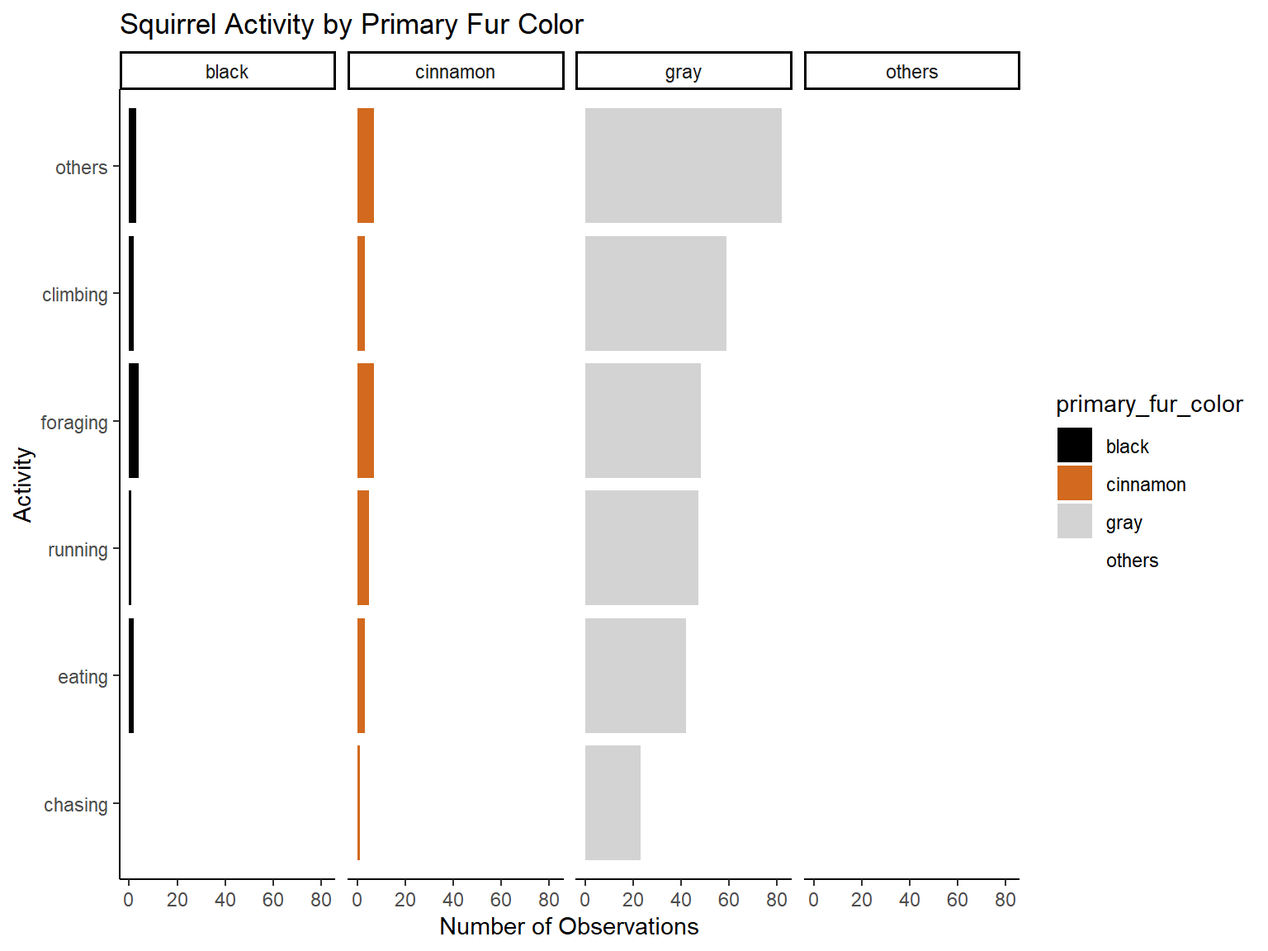
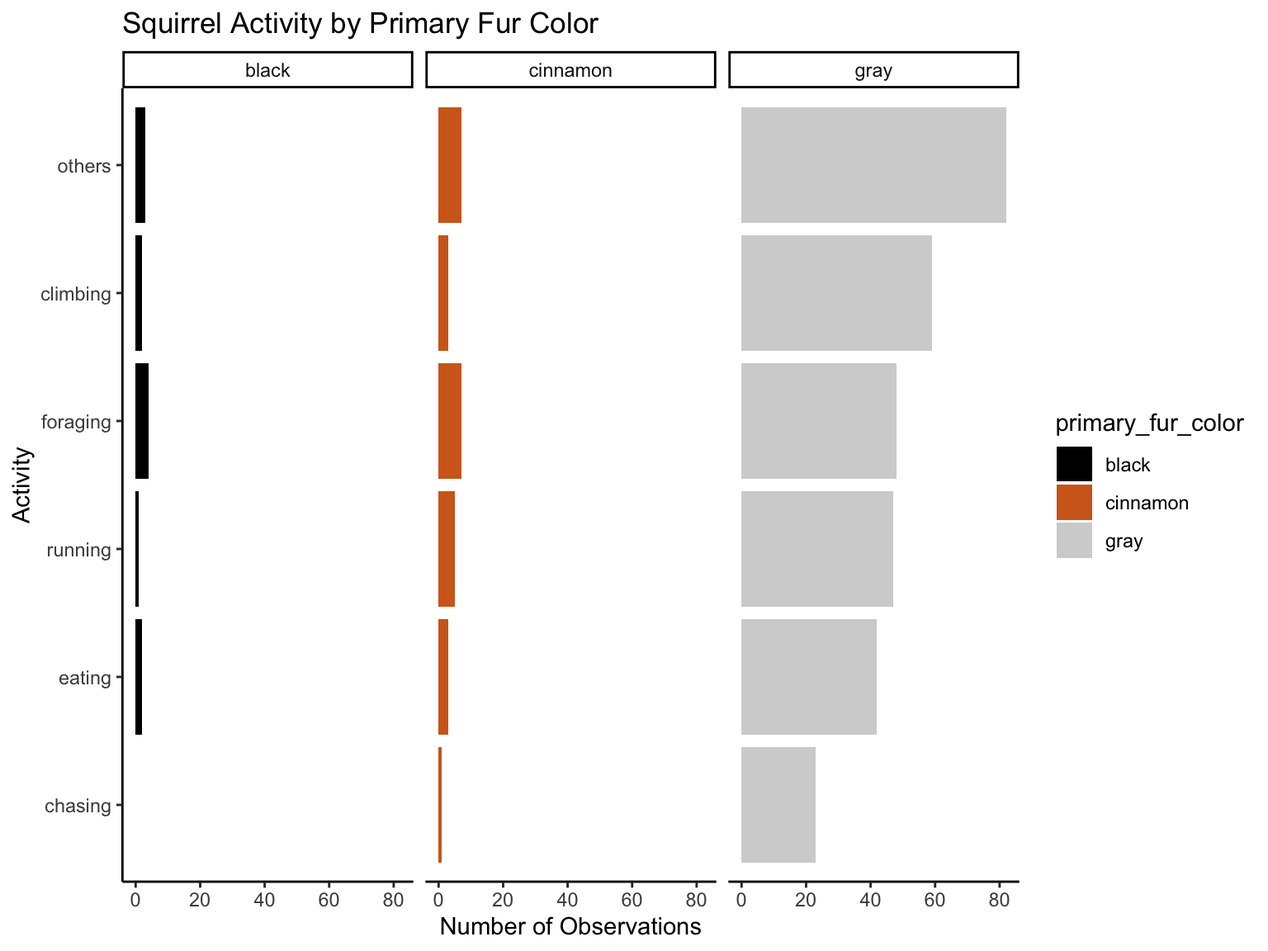
add words, modify the dataset and the graphs

diff --git a/sqr_nyc.html b/sqr_nyc.html
@@ -11,7 +11,7 @@
 
 
 
-<title>Central Park Squirrels Data Analysis</title>
+<title>NYC Squirrels Data Analysis</title>
 
 <script src="site_libs/header-attrs-2.16/header-attrs.js"></script>
 <script src="site_libs/jquery-3.6.0/jquery-3.6.0.min.js"></script>
@@ -417,7 +417,7 @@ div.tocify {
 
 
 
-<h1 class="title toc-ignore">Central Park Squirrels Data Analysis</h1>
+<h1 class="title toc-ignore">NYC Squirrels Data Analysis</h1>
 
 </div>
 
@@ -436,8 +436,7 @@ div.tocify {
     primary_fur_color = case_when(
       primary_fur_color == &quot;Gray&quot; ~ &quot;gray&quot;,
       primary_fur_color == &quot;Cinnamon&quot; ~ &quot;cinnamon&quot;,
-      primary_fur_color == &quot;Black&quot; ~ &quot;black&quot;,
-      TRUE ~ &quot;others&quot;
+      primary_fur_color == &quot;Black&quot; ~ &quot;black&quot;
          )
     )%&gt;%
   mutate(
@@ -472,19 +471,271 @@ div.tocify {
   dplyr::select(unique_squirrel_id,everything()) %&gt;% 
   filter(long &lt; -70 )
 
-# sqr_nyc %&gt;% group_by(activity) %&gt;%
-#   summarize(n = n()) %&gt;%
-#   filter(
-#     activity %in% c(&#39;eating&#39;,&#39;foraging&#39;,&#39;climbing&#39;, &#39;chasing&#39;,&#39;running&#39;)
-#     ) #332/433
-
-#write_csv(sqr_nyc, file = &#39;./squirrel_data_in_nyc/sqr_nyc_clean.csv&#39;)</code></pre>
+sqr_nyc %&gt;% skimr::skim_without_charts()</code></pre>
+<table>
+<caption>Data summary</caption>
+<tbody>
+<tr class="odd">
+<td align="left">Name</td>
+<td align="left">Piped data</td>
+</tr>
+<tr class="even">
+<td align="left">Number of rows</td>
+<td align="left">340</td>
+</tr>
+<tr class="odd">
+<td align="left">Number of columns</td>
+<td align="left">15</td>
+</tr>
+<tr class="even">
+<td align="left">_______________________</td>
+<td align="left"></td>
+</tr>
+<tr class="odd">
+<td align="left">Column type frequency:</td>
+<td align="left"></td>
+</tr>
+<tr class="even">
+<td align="left">character</td>
+<td align="left">13</td>
+</tr>
+<tr class="odd">
+<td align="left">numeric</td>
+<td align="left">2</td>
+</tr>
+<tr class="even">
+<td align="left">________________________</td>
+<td align="left"></td>
+</tr>
+<tr class="odd">
+<td align="left">Group variables</td>
+<td align="left">None</td>
+</tr>
+</tbody>
+</table>
+<p><strong>Variable type: character</strong></p>
+<table style="width:100%;">
+<colgroup>
+<col width="32%" />
+<col width="11%" />
+<col width="16%" />
+<col width="4%" />
+<col width="4%" />
+<col width="6%" />
+<col width="10%" />
+<col width="12%" />
+</colgroup>
+<thead>
+<tr class="header">
+<th align="left">skim_variable</th>
+<th align="right">n_missing</th>
+<th align="right">complete_rate</th>
+<th align="right">min</th>
+<th align="right">max</th>
+<th align="right">empty</th>
+<th align="right">n_unique</th>
+<th align="right">whitespace</th>
+</tr>
+</thead>
+<tbody>
+<tr class="odd">
+<td align="left">unique_squirrel_id</td>
+<td align="right">0</td>
+<td align="right">1.00</td>
+<td align="right">7</td>
+<td align="right">7</td>
+<td align="right">0</td>
+<td align="right">340</td>
+<td align="right">0</td>
+</tr>
+<tr class="even">
+<td align="left">area_name</td>
+<td align="right">0</td>
+<td align="right">1.00</td>
+<td align="right">8</td>
+<td align="right">17</td>
+<td align="right">0</td>
+<td align="right">4</td>
+<td align="right">0</td>
+</tr>
+<tr class="odd">
+<td align="left">area_id</td>
+<td align="right">0</td>
+<td align="right">1.00</td>
+<td align="right">1</td>
+<td align="right">1</td>
+<td align="right">0</td>
+<td align="right">4</td>
+<td align="right">0</td>
+</tr>
+<tr class="even">
+<td align="left">park_name</td>
+<td align="right">0</td>
+<td align="right">1.00</td>
+<td align="right">11</td>
+<td align="right">31</td>
+<td align="right">0</td>
+<td align="right">18</td>
+<td align="right">0</td>
+</tr>
+<tr class="odd">
+<td align="left">park_id</td>
+<td align="right">0</td>
+<td align="right">1.00</td>
+<td align="right">2</td>
+<td align="right">2</td>
+<td align="right">0</td>
+<td align="right">18</td>
+<td align="right">0</td>
+</tr>
+<tr class="even">
+<td align="left">primary_fur_color</td>
+<td align="right">1</td>
+<td align="right">1.00</td>
+<td align="right">4</td>
+<td align="right">8</td>
+<td align="right">0</td>
+<td align="right">3</td>
+<td align="right">0</td>
+</tr>
+<tr class="odd">
+<td align="left">highlights_in_fur_color</td>
+<td align="right">92</td>
+<td align="right">0.73</td>
+<td align="right">4</td>
+<td align="right">15</td>
+<td align="right">0</td>
+<td align="right">7</td>
+<td align="right">0</td>
+</tr>
+<tr class="even">
+<td align="left">location</td>
+<td align="right">0</td>
+<td align="right">1.00</td>
+<td align="right">6</td>
+<td align="right">12</td>
+<td align="right">0</td>
+<td align="right">3</td>
+<td align="right">0</td>
+</tr>
+<tr class="odd">
+<td align="left">above_ground_height_in_feet</td>
+<td align="right">236</td>
+<td align="right">0.31</td>
+<td align="right">1</td>
+<td align="right">13</td>
+<td align="right">0</td>
+<td align="right">26</td>
+<td align="right">0</td>
+</tr>
+<tr class="even">
+<td align="left">specific_location</td>
+<td align="right">271</td>
+<td align="right">0.20</td>
+<td align="right">4</td>
+<td align="right">48</td>
+<td align="right">0</td>
+<td align="right">28</td>
+<td align="right">0</td>
+</tr>
+<tr class="odd">
+<td align="left">interactions_with_humans</td>
+<td align="right">78</td>
+<td align="right">0.77</td>
+<td align="right">7</td>
+<td align="right">45</td>
+<td align="right">0</td>
+<td align="right">20</td>
+<td align="right">0</td>
+</tr>
+<tr class="even">
+<td align="left">lat_long</td>
+<td align="right">0</td>
+<td align="right">1.00</td>
+<td align="right">26</td>
+<td align="right">28</td>
+<td align="right">0</td>
+<td align="right">324</td>
+<td align="right">0</td>
+</tr>
+<tr class="odd">
+<td align="left">activity</td>
+<td align="right">0</td>
+<td align="right">1.00</td>
+<td align="right">6</td>
+<td align="right">8</td>
+<td align="right">0</td>
+<td align="right">6</td>
+<td align="right">0</td>
+</tr>
+</tbody>
+</table>
+<p><strong>Variable type: numeric</strong></p>
+<table style="width:100%;">
+<colgroup>
+<col width="16%" />
+<col width="11%" />
+<col width="16%" />
+<col width="8%" />
+<col width="5%" />
+<col width="8%" />
+<col width="8%" />
+<col width="8%" />
+<col width="8%" />
+<col width="8%" />
+</colgroup>
+<thead>
+<tr class="header">
+<th align="left">skim_variable</th>
+<th align="right">n_missing</th>
+<th align="right">complete_rate</th>
+<th align="right">mean</th>
+<th align="right">sd</th>
+<th align="right">p0</th>
+<th align="right">p25</th>
+<th align="right">p50</th>
+<th align="right">p75</th>
+<th align="right">p100</th>
+</tr>
+</thead>
+<tbody>
+<tr class="odd">
+<td align="left">lat</td>
+<td align="right">0</td>
+<td align="right">1</td>
+<td align="right">40.75</td>
+<td align="right">0.05</td>
+<td align="right">40.70</td>
+<td align="right">40.72</td>
+<td align="right">40.73</td>
+<td align="right">40.80</td>
+<td align="right">40.86</td>
+</tr>
+<tr class="even">
+<td align="left">long</td>
+<td align="right">0</td>
+<td align="right">1</td>
+<td align="right">-73.97</td>
+<td align="right">0.03</td>
+<td align="right">-74.02</td>
+<td align="right">-74.00</td>
+<td align="right">-73.98</td>
+<td align="right">-73.94</td>
+<td align="right">-73.93</td>
+</tr>
+</tbody>
+</table>
 <div id="squirrel-activity-by-primary-fur-color" class="section level2">
 <h2>Squirrel Activity by Primary Fur Color</h2>
-<p>In our dataset, there are 5 different kinds of activities reported
-which are foraging, running, eating, climbing and chasing. We make this
-plot to analysis central park squirrel activity by their primary fur
-color.</p>
+<p>In our dataset, there are 5 main different kinds of activities
+reported which are foraging, running, eating, climbing and chasing. We
+make this plot to analyze central park squirrel activity by their
+primary fur color. The first graph we drew about NYC data was to show
+the activities in squirrels by their different primary fur colors.
+Constrained on the activities indicated in the central park dataset,
+gray squirrels like to climb the most frequently and chase the least
+frequently. Black and gray squirrels like to forage the most and chase
+the least.</p>
 <pre class="r"><code>(plot_1 = 
   sqr_nyc %&gt;%
   filter(!is.na(activity)) %&gt;% 
@@ -493,7 +744,7 @@ color.</p>
   count(activity, sort = TRUE)%&gt;%
   ggplot(aes(x = reorder(activity, n), y = n)) + 
   geom_bar(aes(fill = primary_fur_color), stat = &quot;identity&quot;) + 
-  scale_fill_manual(values = c(&quot;#000000&quot;, &quot;#D2691E&quot;, &quot;#D3D3D3&quot;, &quot;white&quot;)) +
+  scale_fill_manual(values = c(&quot;#000000&quot;, &quot;#D2691E&quot;, &quot;#D3D3D3&quot;, &quot;indianred4&quot;)) +
   theme_classic() + 
   facet_wrap(~primary_fur_color, nrow = 1) +
   labs(title = &quot;Squirrel Activity by Primary Fur Color&quot;, y = &#39;Number of Observations&#39;, x = &#39;Activity&#39;) +
@@ -503,8 +754,12 @@ color.</p>
 <div id="squirrel-activity-by-location-of-squirrel"
 class="section level2">
 <h2>Squirrel Activity by Location of Squirrel</h2>
-<p>We make this plot to analysis central park squirrel activity by their
-location (above ground, ground plane).</p>
+<p>We make this plot to analyze central park squirrel activity by their
+location (above ground, ground plane). The second graph about NYC data
+was to show how distributions of different activities differ by the
+locations. Activities like eating, foraging and running most happened on
+the ground plane, but other activities like chasing and climbing
+happened above ground for the most of time.</p>
 <pre class="r"><code>sqr_nyc %&gt;%
   filter(!is.na(activity)) %&gt;% 
   filter(!is.na(location)) %&gt;% 
@@ -520,7 +775,9 @@ location (above ground, ground plane).</p>
 </div>
 <div id="primary-fur-color-map" class="section level2">
 <h2>Primary Fur Color Map</h2>
-<pre class="r"><code>pal_coats &lt;- colorFactor(c(&quot;#000000&quot;, &quot;#D2691E&quot;, &quot;#D3D3D3&quot;, &quot;white&quot;), domain = c(&quot;black&quot;, &quot;cinnamon&quot;, &quot;grey&quot;, &quot;others&quot;))
+<p>We build this map to visualize the distribution of each squirrel by
+different primary fur color clearly.</p>
+<pre class="r"><code>pal_coats &lt;- colorFactor(c(&quot;#000000&quot;, &quot;#D2691E&quot;, &quot;#D3D3D3&quot;, &quot;white&quot;), domain = c(&quot;black&quot;, &quot;cinnamon&quot;, &quot;grey&quot;))
 
 #Locations based on fur color
 sqr_nyc %&gt;%
@@ -530,8 +787,8 @@ sqr_nyc %&gt;%
   addCircleMarkers(lng = ~long,
                    lat = ~lat, radius = 3, color = ~pal_coats(primary_fur_color), stroke = FALSE, fillOpacity = 0.5) %&gt;%
   addLegend(position = &quot;topright&quot;,pal = pal_coats, values = ~primary_fur_color)</code></pre>
-<div id="htmlwidget-518ef239ee8b950a4d72" style="width:90%;height:576px;" class="leaflet html-widget"></div>
-<script type="application/json" data-for="htmlwidget-518ef239ee8b950a4d72">{"x":{"options":{"crs":{"crsClass":"L.CRS.EPSG3857","code":null,"proj4def":null,"projectedBounds":null,"options":{}}},"calls":[{"method":"addTiles","args":["https://{s}.tile.openstreetmap.org/{z}/{x}/{y}.png",null,null,{"minZoom":0,"maxZoom":18,"tileSize":256,"subdomains":"abc","errorTileUrl":"","tms":false,"noWrap":false,"zoomOffset":0,"zoomReverse":false,"opacity":1,"zIndex":1,"detectRetina":false,"attribution":"&copy; <a href=\"https://openstreetmap.org\">OpenStreetMap<\/a> contributors, <a href=\"https://creativecommons.org/licenses/by-sa/2.0/\">CC-BY-SA<\/a>"}]},{"method":"addCircleMarkers","args":[[40.85941,40.859436,40.859416,40.859418,40.859493,40.860825,40.860225,40.859965,40.859892,40.859636,40.859576,40.859989,40.845749,40.845875,40.845875,40.846088,40.846088,40.846088,40.846222,40.846222,40.846197,40.846185,40.846271,40.846332,40.846332,40.846332,40.846458,40.846417,40.846296,40.846064,40.846065,40.847296,40.847259,40.84719,40.84719,40.847113,40.841178,40.841204,40.841212,40.841217,40.841359,40.841375,40.841375,40.842308,40.842401,40.842511,40.842673,40.842795,40.842327,40.842359,40.842769,40.817593,40.817719,40.817719,40.817711,40.817569,40.817544,40.817544,40.817479,40.816685,40.816677,40.816555,40.816506,40.816425,40.818308,40.818263,40.804912,40.804912,40.804913,40.804915,40.804916,40.804914,40.804917,40.804912,40.804701,40.804746,40.804912,40.804729,40.804713,40.804613,40.804564,40.804253,40.803758,40.803616,40.803413,40.80338,40.803392,40.803794,40.803795,40.803794,40.803794,40.803796,40.803795,40.80362,40.80352,40.803507,40.803981,40.804123,40.803981,40.804878,40.74145,40.742255,40.742556,40.742792,40.74288,40.742421,40.742421,40.742807,40.741528,40.741805,40.741862,40.735981,40.735847,40.735896,40.73579,40.735941,40.73566,40.735636,40.73566,40.735587,40.73542,40.735514,40.735945,40.735947,40.73604,40.73618,40.736298,40.733753,40.733648,40.733631,40.733546,40.733591,40.733648,40.733737,40.733501,40.733575,40.733506,40.733619,40.733648,40.733737,40.733932,40.734014,40.734221,40.734083,40.73403,40.734204,40.734314,40.734261,40.734144,40.734335,40.734383,40.734356,40.730703,40.730638,40.730528,40.730394,40.730341,40.7303,40.730247,40.730231,40.730223,40.730077,40.729858,40.72985,40.729822,40.729809,40.729939,40.729976,40.72996,40.729927,40.729988,40.72998,40.730318,40.730301,40.730334,40.730411,40.730395,40.730411,40.731031,40.731504,40.731548,40.731608,40.731503,40.731552,40.731952,40.731936,40.732001,40.731974,40.731861,40.731804,40.731747,40.731665,40.731548,40.731389,40.7312,40.731119,40.731103,40.73092,40.730782,40.725738,40.722614,40.72263,40.72263,40.722614,40.722173,40.719379,40.71935,40.721923,40.724011,40.724608,40.724774,40.715415,40.715484,40.714749,40.71468,40.714846,40.715033,40.715208,40.712159,40.712199,40.712118,40.712179,40.712216,40.712224,40.71224,40.711927,40.711866,40.71174,40.711442,40.711316,40.711421,40.711409,40.711303,40.714867,40.7159,40.714875,40.715779,40.716335,40.712828,40.712938,40.712938,40.712893,40.712893,40.712922,40.712922,40.713044,40.712836,40.712881,40.712995,40.713044,40.713276,40.713339,40.713518,40.71312,40.712872,40.712872,40.704053,40.704011,40.703897,40.703885,40.703848,40.703882,40.704211,40.704142,40.704175,40.704171,40.704468,40.704453,40.70442,40.704188,40.70352,40.703487,40.703989,40.703383,40.70295,40.702934,40.702922,40.702411,40.702313,40.702467,40.702597,40.702618,40.725308,40.725511,40.725511,40.725478,40.725527,40.725397,40.725413,40.724755,40.723974,40.723462,40.725372,40.725364,40.725397,40.725197,40.72167,40.721768,40.721662,40.721857,40.721941,40.722039,40.72147,40.721713,40.721933,40.722283,40.722698,40.722819,40.722966,40.723136,40.723071,40.723006,40.722962,40.722603,40.721247,40.720606,40.720582,40.720533,40.720488,40.720458,40.720018,40.720026,40.719777,40.720114,40.719944,40.720448,40.720412,40.720372,40.720749,40.721181,40.721181,40.72112,40.721315,40.721258,40.721217,40.721173,40.721161,40.721124,40.721026,40.719376],[-73.933936,-73.933937,-73.933894,-73.933895,-73.93359,-73.932871,-73.933143,-73.933412,-73.933326,-73.933717,-73.933738,-73.934544,-73.9407,-73.940808,-73.940808,-73.940613,-73.940613,-73.940613,-73.94094,-73.94094,-73.941026,-73.940613,-73.940579,-73.940369,-73.940369,-73.940369,-73.94103,-73.941115,-73.941132,-73.941497,-73.941498,-73.942061,-73.941598,-73.941308,-73.941308,-73.940937,-73.935482,-73.935434,-73.934827,-73.934714,-73.934339,-73.934242,-73.934242,-73.933061,-73.932986,-73.932916,-73.932793,-73.933002,-73.934269,-73.934177,-73.934478,-73.948855,-73.948855,-73.948914,-73.949118,-73.948931,-73.949016,-73.949016,-73.949006,-73.949689,-73.949549,-73.949609,-73.949587,-73.949474,-73.948952,-73.948909,-73.943735,-73.943736,-73.943735,-73.943737,-73.943735,-73.943736,-73.943737,-73.943738,-73.944118,-73.94374,-73.94408,-73.944053,-73.944032,-73.943829,-73.943824,-73.944121,-73.94433,-73.944464,-73.944207,-73.944148,-73.944228,-73.944003,-73.944003,-73.944004,-73.944005,-73.944003,-73.944004,-73.944067,-73.943629,-73.943661,-73.943327,-73.943402,-73.943273,-73.942781,-73.987884,-73.987433,-73.986971,-73.987046,-73.987663,-73.98808,-73.98808,-73.988435,-73.988324,-73.988448,-73.988797,-73.99062,-73.990115,-73.99041,-73.990738,-73.99063,-73.990351,-73.990426,-73.990351,-73.990367,-73.990453,-73.99033,-73.990201,-73.99023,-73.98966,-73.990683,-73.990559,-73.983682,-73.983483,-73.983419,-73.983263,-73.983263,-73.984294,-73.98438,-73.984417,-73.984391,-73.984553,-73.984708,-73.984638,-73.984644,-73.984612,-73.984461,-73.984397,-73.984322,-73.984199,-73.984242,-73.984231,-73.984284,-73.984059,-73.984038,-73.984118,-73.984062,-73.995821,-73.995784,-73.995891,-73.996009,-73.996052,-73.996106,-73.996175,-73.996138,-73.996132,-73.996277,-73.996843,-73.996778,-73.996816,-73.996762,-73.997068,-73.997154,-73.997079,-73.997036,-73.997106,-73.997031,-73.997213,-73.997251,-73.997589,-73.997589,-73.997535,-73.997766,-73.999122,-73.998977,-73.998842,-73.998928,-73.999014,-73.998788,-73.998647,-73.998598,-73.998491,-73.998482,-73.998122,-73.997999,-73.997859,-73.997747,-73.99758,-73.997231,-73.996805,-73.996655,-73.996601,-73.996242,-73.996017,-73.972105,-73.972894,-73.973001,-73.973109,-73.973033,-73.97272,-73.973504,-73.973445,-73.974121,-73.97313,-73.972841,-73.97275,-73.989567,-73.989299,-73.989577,-73.989776,-73.989679,-73.989609,-73.989534,-73.979415,-73.979519,-73.97968,-73.979776,-73.979857,-73.979669,-73.979744,-73.979658,-73.97976,-73.980539,-73.978354,-73.978343,-73.977692,-73.977719,-73.97759,-74.000236,-74.000167,-74.000346,-73.999887,-74.015612,-74.005072,-74.005152,-74.005152,-74.005233,-74.005233,-74.005147,-74.005147,-74.005404,-74.005662,-74.005823,-74.005963,-74.006242,-74.006323,-74.006313,-74.006308,-74.006862,-74.006878,-74.006878,-74.01612,-74.016134,-74.016118,-74.016161,-74.016134,-74.015955,-74.015859,-74.015837,-74.015306,-74.015242,-74.014774,-74.014757,-74.014741,-74.014853,-74.015273,-74.015278,-74.015202,-74.015584,-74.015813,-74.015775,-74.016629,-74.015896,-74.015644,-74.015757,-74.016132,-74.016556,-73.942789,-73.943609,-73.943448,-73.944113,-73.943974,-73.944124,-73.943984,-73.944006,-73.943845,-73.943952,-73.943652,-73.943512,-73.943297,-73.943273,-73.953364,-73.953192,-73.953278,-73.953139,-73.952947,-73.952796,-73.952857,-73.95305,-73.953147,-73.953115,-73.953198,-73.952095,-73.951987,-73.951794,-73.951697,-73.951655,-73.951752,-73.951449,-73.951609,-73.952769,-73.952694,-73.95272,-73.952806,-73.954244,-73.953442,-73.953652,-73.952774,-73.952768,-73.952505,-73.952521,-73.952353,-73.952326,-73.951891,-73.951255,-73.951255,-73.95104,-73.950943,-73.950799,-73.95077,-73.950781,-73.950732,-73.950797,-73.950765,-73.952326],3,null,null,{"interactive":true,"className":"","stroke":false,"color":["#808080","#808080","#808080","#808080","#808080","#808080","#808080","#000000","#808080","#808080","#808080","#808080","#808080","#808080","#808080","#808080","#808080","#808080","#808080","#808080","#808080","#808080","#808080","#808080","#808080","#808080","#808080","#808080","#808080","#808080","#808080","#808080","#808080","#808080","#808080","#D2691E","#808080","#808080","#808080","#808080","#808080","#808080","#808080","#808080","#808080","#808080","#808080","#808080","#808080","#808080","#808080","#808080","#000000","#808080","#808080","#808080","#808080","#808080","#808080","#808080","#808080","#000000","#808080","#808080","#808080","#808080","#808080","#808080","#808080","#808080","#808080","#808080","#808080","#000000","#808080","#808080","#808080","#808080","#808080","#808080","#808080","#808080","#808080","#808080","#808080","#808080","#808080","#808080","#808080","#808080","#808080","#808080","#808080","#808080","#808080","#808080","#808080","#808080","#000000","#808080","#808080","#808080","#808080","#808080","#808080","#808080","#808080","#808080","#808080","#808080","#808080","#D2691E","#808080","#D2691E","#808080","#808080","#808080","#808080","#808080","#808080","#808080","#D2691E","#808080","#D2691E","#808080","#808080","#D2691E","#808080","#808080","#808080","#808080","#808080","#808080","#808080","#808080","#808080","#808080","#808080","#808080","#808080","#000000","#000000","#000000","#808080","#808080","#000000","#808080","#808080","#808080","#808080","#000000","#000000","#808080","#808080","#808080","#808080","#808080","#808080","#808080","#808080","#808080","#808080","#808080","#808080","#808080","#808080","#808080","#808080","#808080","#808080","#808080","#808080","#808080","#808080","#808080","#808080","#808080","#808080","#808080","#808080","#808080","#808080","#808080","#808080","#808080","#808080","#808080","#808080","#808080","#808080","#808080","#808080","#808080","#808080","#808080","#808080","#808080","#808080","#808080","#808080","#000000","#808080","#808080","#808080","#808080","#808080","#808080","#808080","#808080","#808080","#808080","#808080","#808080","#808080","#808080","#808080","#808080","#808080","#808080","#808080","#808080","#808080","#808080","#808080","#808080","#808080","#808080","#808080","#808080","#808080","#808080","#808080","#D2691E","#808080","#808080","#808080","#808080","#808080","#808080","#808080","#808080","#808080","#808080","#808080","#808080","#808080","#808080","#808080","#808080","#808080","#808080","#808080","#808080","#808080","#808080","#808080","#808080","#808080","#808080","#FFFFFF","#808080","#D2691E","#D2691E","#808080","#808080","#808080","#808080","#808080","#808080","#808080","#808080","#808080","#808080","#808080","#808080","#D2691E","#808080","#D2691E","#808080","#808080","#808080","#808080","#808080","#808080","#808080","#808080","#808080","#808080","#808080","#808080","#808080","#808080","#808080","#808080","#808080","#808080","#D2691E","#808080","#808080","#808080","#D2691E","#D2691E","#D2691E","#D2691E","#808080","#808080","#808080","#808080","#808080","#D2691E","#808080","#D2691E","#808080","#D2691E","#D2691E","#808080","#808080","#808080","#808080","#808080","#808080","#808080","#808080","#808080","#808080","#808080","#D2691E","#808080","#808080","#D2691E","#D2691E","#D2691E","#808080","#808080","#808080","#D2691E","#D2691E","#808080","#808080","#808080"],"weight":5,"opacity":0.5,"fill":true,"fillColor":["#808080","#808080","#808080","#808080","#808080","#808080","#808080","#000000","#808080","#808080","#808080","#808080","#808080","#808080","#808080","#808080","#808080","#808080","#808080","#808080","#808080","#808080","#808080","#808080","#808080","#808080","#808080","#808080","#808080","#808080","#808080","#808080","#808080","#808080","#808080","#D2691E","#808080","#808080","#808080","#808080","#808080","#808080","#808080","#808080","#808080","#808080","#808080","#808080","#808080","#808080","#808080","#808080","#000000","#808080","#808080","#808080","#808080","#808080","#808080","#808080","#808080","#000000","#808080","#808080","#808080","#808080","#808080","#808080","#808080","#808080","#808080","#808080","#808080","#000000","#808080","#808080","#808080","#808080","#808080","#808080","#808080","#808080","#808080","#808080","#808080","#808080","#808080","#808080","#808080","#808080","#808080","#808080","#808080","#808080","#808080","#808080","#808080","#808080","#000000","#808080","#808080","#808080","#808080","#808080","#808080","#808080","#808080","#808080","#808080","#808080","#808080","#D2691E","#808080","#D2691E","#808080","#808080","#808080","#808080","#808080","#808080","#808080","#D2691E","#808080","#D2691E","#808080","#808080","#D2691E","#808080","#808080","#808080","#808080","#808080","#808080","#808080","#808080","#808080","#808080","#808080","#808080","#808080","#000000","#000000","#000000","#808080","#808080","#000000","#808080","#808080","#808080","#808080","#000000","#000000","#808080","#808080","#808080","#808080","#808080","#808080","#808080","#808080","#808080","#808080","#808080","#808080","#808080","#808080","#808080","#808080","#808080","#808080","#808080","#808080","#808080","#808080","#808080","#808080","#808080","#808080","#808080","#808080","#808080","#808080","#808080","#808080","#808080","#808080","#808080","#808080","#808080","#808080","#808080","#808080","#808080","#808080","#808080","#808080","#808080","#808080","#808080","#808080","#000000","#808080","#808080","#808080","#808080","#808080","#808080","#808080","#808080","#808080","#808080","#808080","#808080","#808080","#808080","#808080","#808080","#808080","#808080","#808080","#808080","#808080","#808080","#808080","#808080","#808080","#808080","#808080","#808080","#808080","#808080","#808080","#D2691E","#808080","#808080","#808080","#808080","#808080","#808080","#808080","#808080","#808080","#808080","#808080","#808080","#808080","#808080","#808080","#808080","#808080","#808080","#808080","#808080","#808080","#808080","#808080","#808080","#808080","#808080","#FFFFFF","#808080","#D2691E","#D2691E","#808080","#808080","#808080","#808080","#808080","#808080","#808080","#808080","#808080","#808080","#808080","#808080","#D2691E","#808080","#D2691E","#808080","#808080","#808080","#808080","#808080","#808080","#808080","#808080","#808080","#808080","#808080","#808080","#808080","#808080","#808080","#808080","#808080","#808080","#D2691E","#808080","#808080","#808080","#D2691E","#D2691E","#D2691E","#D2691E","#808080","#808080","#808080","#808080","#808080","#D2691E","#808080","#D2691E","#808080","#D2691E","#D2691E","#808080","#808080","#808080","#808080","#808080","#808080","#808080","#808080","#808080","#808080","#808080","#D2691E","#808080","#808080","#D2691E","#D2691E","#D2691E","#808080","#808080","#808080","#D2691E","#D2691E","#808080","#808080","#808080"],"fillOpacity":0.5},null,null,null,null,null,{"interactive":false,"permanent":false,"direction":"auto","opacity":1,"offset":[0,0],"textsize":"10px","textOnly":false,"className":"","sticky":true},null]},{"method":"addLegend","args":[{"colors":["#000000","#D2691E","#808080","#FFFFFF"],"labels":["black","cinnamon","gray","others"],"na_color":null,"na_label":"NA","opacity":0.5,"position":"topright","type":"factor","title":"primary_fur_color","extra":null,"layerId":null,"className":"info legend","group":null}]}],"limits":{"lat":[40.702313,40.860825],"lng":[-74.016629,-73.932793]}},"evals":[],"jsHooks":[]}</script>
+<div id="htmlwidget-7b2d3182d6c1b9204aab" style="width:90%;height:576px;" class="leaflet html-widget"></div>
+<script type="application/json" data-for="htmlwidget-7b2d3182d6c1b9204aab">{"x":{"options":{"crs":{"crsClass":"L.CRS.EPSG3857","code":null,"proj4def":null,"projectedBounds":null,"options":{}}},"calls":[{"method":"addTiles","args":["https://{s}.tile.openstreetmap.org/{z}/{x}/{y}.png",null,null,{"minZoom":0,"maxZoom":18,"tileSize":256,"subdomains":"abc","errorTileUrl":"","tms":false,"noWrap":false,"zoomOffset":0,"zoomReverse":false,"opacity":1,"zIndex":1,"detectRetina":false,"attribution":"&copy; <a href=\"https://openstreetmap.org\">OpenStreetMap<\/a> contributors, <a href=\"https://creativecommons.org/licenses/by-sa/2.0/\">CC-BY-SA<\/a>"}]},{"method":"addCircleMarkers","args":[[40.85941,40.859436,40.859416,40.859418,40.859493,40.860825,40.860225,40.859965,40.859892,40.859636,40.859576,40.859989,40.845749,40.845875,40.845875,40.846088,40.846088,40.846088,40.846222,40.846222,40.846197,40.846185,40.846271,40.846332,40.846332,40.846332,40.846458,40.846417,40.846296,40.846064,40.846065,40.847296,40.847259,40.84719,40.84719,40.847113,40.841178,40.841204,40.841212,40.841217,40.841359,40.841375,40.841375,40.842308,40.842401,40.842511,40.842673,40.842795,40.842327,40.842359,40.842769,40.817593,40.817719,40.817719,40.817711,40.817569,40.817544,40.817544,40.817479,40.816685,40.816677,40.816555,40.816506,40.816425,40.818308,40.818263,40.804912,40.804912,40.804913,40.804915,40.804916,40.804914,40.804917,40.804912,40.804701,40.804746,40.804912,40.804729,40.804713,40.804613,40.804564,40.804253,40.803758,40.803616,40.803413,40.80338,40.803392,40.803794,40.803795,40.803794,40.803794,40.803796,40.803795,40.80362,40.80352,40.803507,40.803981,40.804123,40.803981,40.804878,40.74145,40.742255,40.742556,40.742792,40.74288,40.742421,40.742421,40.742807,40.741528,40.741805,40.741862,40.735981,40.735847,40.735896,40.73579,40.735941,40.73566,40.735636,40.73566,40.735587,40.73542,40.735514,40.735945,40.735947,40.73604,40.73618,40.736298,40.733753,40.733648,40.733631,40.733546,40.733591,40.733648,40.733737,40.733501,40.733575,40.733506,40.733619,40.733648,40.733737,40.733932,40.734014,40.734221,40.734083,40.73403,40.734204,40.734314,40.734261,40.734144,40.734335,40.734383,40.734356,40.730703,40.730638,40.730528,40.730394,40.730341,40.7303,40.730247,40.730231,40.730223,40.730077,40.729858,40.72985,40.729822,40.729809,40.729939,40.729976,40.72996,40.729927,40.729988,40.72998,40.730318,40.730301,40.730334,40.730411,40.730395,40.730411,40.731031,40.731504,40.731548,40.731608,40.731503,40.731552,40.731952,40.731936,40.732001,40.731974,40.731861,40.731804,40.731747,40.731665,40.731548,40.731389,40.7312,40.731119,40.731103,40.73092,40.730782,40.725738,40.722614,40.72263,40.72263,40.722614,40.722173,40.719379,40.71935,40.721923,40.724011,40.724608,40.724774,40.715415,40.715484,40.714749,40.71468,40.714846,40.715033,40.715208,40.712159,40.712199,40.712118,40.712179,40.712216,40.712224,40.71224,40.711927,40.711866,40.71174,40.711442,40.711316,40.711421,40.711409,40.711303,40.714867,40.7159,40.714875,40.715779,40.716335,40.712828,40.712938,40.712938,40.712893,40.712893,40.712922,40.712922,40.713044,40.712836,40.712881,40.712995,40.713044,40.713276,40.713339,40.713518,40.71312,40.712872,40.712872,40.704053,40.704011,40.703897,40.703848,40.703882,40.704211,40.704142,40.704175,40.704171,40.704468,40.704453,40.70442,40.704188,40.70352,40.703487,40.703989,40.703383,40.70295,40.702934,40.702922,40.702411,40.702313,40.702467,40.702597,40.702618,40.725308,40.725511,40.725511,40.725478,40.725527,40.725397,40.725413,40.724755,40.723974,40.723462,40.725372,40.725364,40.725397,40.725197,40.72167,40.721768,40.721662,40.721857,40.721941,40.722039,40.72147,40.721713,40.721933,40.722283,40.722698,40.722819,40.722966,40.723136,40.723071,40.723006,40.722962,40.722603,40.721247,40.720606,40.720582,40.720533,40.720488,40.720458,40.720018,40.720026,40.719777,40.720114,40.719944,40.720448,40.720412,40.720372,40.720749,40.721181,40.721181,40.72112,40.721315,40.721258,40.721217,40.721173,40.721161,40.721124,40.721026,40.719376],[-73.933936,-73.933937,-73.933894,-73.933895,-73.93359,-73.932871,-73.933143,-73.933412,-73.933326,-73.933717,-73.933738,-73.934544,-73.9407,-73.940808,-73.940808,-73.940613,-73.940613,-73.940613,-73.94094,-73.94094,-73.941026,-73.940613,-73.940579,-73.940369,-73.940369,-73.940369,-73.94103,-73.941115,-73.941132,-73.941497,-73.941498,-73.942061,-73.941598,-73.941308,-73.941308,-73.940937,-73.935482,-73.935434,-73.934827,-73.934714,-73.934339,-73.934242,-73.934242,-73.933061,-73.932986,-73.932916,-73.932793,-73.933002,-73.934269,-73.934177,-73.934478,-73.948855,-73.948855,-73.948914,-73.949118,-73.948931,-73.949016,-73.949016,-73.949006,-73.949689,-73.949549,-73.949609,-73.949587,-73.949474,-73.948952,-73.948909,-73.943735,-73.943736,-73.943735,-73.943737,-73.943735,-73.943736,-73.943737,-73.943738,-73.944118,-73.94374,-73.94408,-73.944053,-73.944032,-73.943829,-73.943824,-73.944121,-73.94433,-73.944464,-73.944207,-73.944148,-73.944228,-73.944003,-73.944003,-73.944004,-73.944005,-73.944003,-73.944004,-73.944067,-73.943629,-73.943661,-73.943327,-73.943402,-73.943273,-73.942781,-73.987884,-73.987433,-73.986971,-73.987046,-73.987663,-73.98808,-73.98808,-73.988435,-73.988324,-73.988448,-73.988797,-73.99062,-73.990115,-73.99041,-73.990738,-73.99063,-73.990351,-73.990426,-73.990351,-73.990367,-73.990453,-73.99033,-73.990201,-73.99023,-73.98966,-73.990683,-73.990559,-73.983682,-73.983483,-73.983419,-73.983263,-73.983263,-73.984294,-73.98438,-73.984417,-73.984391,-73.984553,-73.984708,-73.984638,-73.984644,-73.984612,-73.984461,-73.984397,-73.984322,-73.984199,-73.984242,-73.984231,-73.984284,-73.984059,-73.984038,-73.984118,-73.984062,-73.995821,-73.995784,-73.995891,-73.996009,-73.996052,-73.996106,-73.996175,-73.996138,-73.996132,-73.996277,-73.996843,-73.996778,-73.996816,-73.996762,-73.997068,-73.997154,-73.997079,-73.997036,-73.997106,-73.997031,-73.997213,-73.997251,-73.997589,-73.997589,-73.997535,-73.997766,-73.999122,-73.998977,-73.998842,-73.998928,-73.999014,-73.998788,-73.998647,-73.998598,-73.998491,-73.998482,-73.998122,-73.997999,-73.997859,-73.997747,-73.99758,-73.997231,-73.996805,-73.996655,-73.996601,-73.996242,-73.996017,-73.972105,-73.972894,-73.973001,-73.973109,-73.973033,-73.97272,-73.973504,-73.973445,-73.974121,-73.97313,-73.972841,-73.97275,-73.989567,-73.989299,-73.989577,-73.989776,-73.989679,-73.989609,-73.989534,-73.979415,-73.979519,-73.97968,-73.979776,-73.979857,-73.979669,-73.979744,-73.979658,-73.97976,-73.980539,-73.978354,-73.978343,-73.977692,-73.977719,-73.97759,-74.000236,-74.000167,-74.000346,-73.999887,-74.015612,-74.005072,-74.005152,-74.005152,-74.005233,-74.005233,-74.005147,-74.005147,-74.005404,-74.005662,-74.005823,-74.005963,-74.006242,-74.006323,-74.006313,-74.006308,-74.006862,-74.006878,-74.006878,-74.01612,-74.016134,-74.016118,-74.016134,-74.015955,-74.015859,-74.015837,-74.015306,-74.015242,-74.014774,-74.014757,-74.014741,-74.014853,-74.015273,-74.015278,-74.015202,-74.015584,-74.015813,-74.015775,-74.016629,-74.015896,-74.015644,-74.015757,-74.016132,-74.016556,-73.942789,-73.943609,-73.943448,-73.944113,-73.943974,-73.944124,-73.943984,-73.944006,-73.943845,-73.943952,-73.943652,-73.943512,-73.943297,-73.943273,-73.953364,-73.953192,-73.953278,-73.953139,-73.952947,-73.952796,-73.952857,-73.95305,-73.953147,-73.953115,-73.953198,-73.952095,-73.951987,-73.951794,-73.951697,-73.951655,-73.951752,-73.951449,-73.951609,-73.952769,-73.952694,-73.95272,-73.952806,-73.954244,-73.953442,-73.953652,-73.952774,-73.952768,-73.952505,-73.952521,-73.952353,-73.952326,-73.951891,-73.951255,-73.951255,-73.95104,-73.950943,-73.950799,-73.95077,-73.950781,-73.950732,-73.950797,-73.950765,-73.952326],3,null,null,{"interactive":true,"className":"","stroke":false,"color":["#808080","#808080","#808080","#808080","#808080","#808080","#808080","#000000","#808080","#808080","#808080","#808080","#808080","#808080","#808080","#808080","#808080","#808080","#808080","#808080","#808080","#808080","#808080","#808080","#808080","#808080","#808080","#808080","#808080","#808080","#808080","#808080","#808080","#808080","#808080","#DC9E79","#808080","#808080","#808080","#808080","#808080","#808080","#808080","#808080","#808080","#808080","#808080","#808080","#808080","#808080","#808080","#808080","#000000","#808080","#808080","#808080","#808080","#808080","#808080","#808080","#808080","#000000","#808080","#808080","#808080","#808080","#808080","#808080","#808080","#808080","#808080","#808080","#808080","#000000","#808080","#808080","#808080","#808080","#808080","#808080","#808080","#808080","#808080","#808080","#808080","#808080","#808080","#808080","#808080","#808080","#808080","#808080","#808080","#808080","#808080","#808080","#808080","#808080","#000000","#808080","#808080","#808080","#808080","#808080","#808080","#808080","#808080","#808080","#808080","#808080","#808080","#DC9E79","#808080","#DC9E79","#808080","#808080","#808080","#808080","#808080","#808080","#808080","#DC9E79","#808080","#DC9E79","#808080","#808080","#DC9E79","#808080","#808080","#808080","#808080","#808080","#808080","#808080","#808080","#808080","#808080","#808080","#808080","#808080","#000000","#000000","#000000","#808080","#808080","#000000","#808080","#808080","#808080","#808080","#000000","#000000","#808080","#808080","#808080","#808080","#808080","#808080","#808080","#808080","#808080","#808080","#808080","#808080","#808080","#808080","#808080","#808080","#808080","#808080","#808080","#808080","#808080","#808080","#808080","#808080","#808080","#808080","#808080","#808080","#808080","#808080","#808080","#808080","#808080","#808080","#808080","#808080","#808080","#808080","#808080","#808080","#808080","#808080","#808080","#808080","#808080","#808080","#808080","#808080","#000000","#808080","#808080","#808080","#808080","#808080","#808080","#808080","#808080","#808080","#808080","#808080","#808080","#808080","#808080","#808080","#808080","#808080","#808080","#808080","#808080","#808080","#808080","#808080","#808080","#808080","#808080","#808080","#808080","#808080","#808080","#808080","#DC9E79","#808080","#808080","#808080","#808080","#808080","#808080","#808080","#808080","#808080","#808080","#808080","#808080","#808080","#808080","#808080","#808080","#808080","#808080","#808080","#808080","#808080","#808080","#808080","#808080","#808080","#808080","#808080","#DC9E79","#DC9E79","#808080","#808080","#808080","#808080","#808080","#808080","#808080","#808080","#808080","#808080","#808080","#808080","#DC9E79","#808080","#DC9E79","#808080","#808080","#808080","#808080","#808080","#808080","#808080","#808080","#808080","#808080","#808080","#808080","#808080","#808080","#808080","#808080","#808080","#808080","#DC9E79","#808080","#808080","#808080","#DC9E79","#DC9E79","#DC9E79","#DC9E79","#808080","#808080","#808080","#808080","#808080","#DC9E79","#808080","#DC9E79","#808080","#DC9E79","#DC9E79","#808080","#808080","#808080","#808080","#808080","#808080","#808080","#808080","#808080","#808080","#808080","#DC9E79","#808080","#808080","#DC9E79","#DC9E79","#DC9E79","#808080","#808080","#808080","#DC9E79","#DC9E79","#808080","#808080","#808080"],"weight":5,"opacity":0.5,"fill":true,"fillColor":["#808080","#808080","#808080","#808080","#808080","#808080","#808080","#000000","#808080","#808080","#808080","#808080","#808080","#808080","#808080","#808080","#808080","#808080","#808080","#808080","#808080","#808080","#808080","#808080","#808080","#808080","#808080","#808080","#808080","#808080","#808080","#808080","#808080","#808080","#808080","#DC9E79","#808080","#808080","#808080","#808080","#808080","#808080","#808080","#808080","#808080","#808080","#808080","#808080","#808080","#808080","#808080","#808080","#000000","#808080","#808080","#808080","#808080","#808080","#808080","#808080","#808080","#000000","#808080","#808080","#808080","#808080","#808080","#808080","#808080","#808080","#808080","#808080","#808080","#000000","#808080","#808080","#808080","#808080","#808080","#808080","#808080","#808080","#808080","#808080","#808080","#808080","#808080","#808080","#808080","#808080","#808080","#808080","#808080","#808080","#808080","#808080","#808080","#808080","#000000","#808080","#808080","#808080","#808080","#808080","#808080","#808080","#808080","#808080","#808080","#808080","#808080","#DC9E79","#808080","#DC9E79","#808080","#808080","#808080","#808080","#808080","#808080","#808080","#DC9E79","#808080","#DC9E79","#808080","#808080","#DC9E79","#808080","#808080","#808080","#808080","#808080","#808080","#808080","#808080","#808080","#808080","#808080","#808080","#808080","#000000","#000000","#000000","#808080","#808080","#000000","#808080","#808080","#808080","#808080","#000000","#000000","#808080","#808080","#808080","#808080","#808080","#808080","#808080","#808080","#808080","#808080","#808080","#808080","#808080","#808080","#808080","#808080","#808080","#808080","#808080","#808080","#808080","#808080","#808080","#808080","#808080","#808080","#808080","#808080","#808080","#808080","#808080","#808080","#808080","#808080","#808080","#808080","#808080","#808080","#808080","#808080","#808080","#808080","#808080","#808080","#808080","#808080","#808080","#808080","#000000","#808080","#808080","#808080","#808080","#808080","#808080","#808080","#808080","#808080","#808080","#808080","#808080","#808080","#808080","#808080","#808080","#808080","#808080","#808080","#808080","#808080","#808080","#808080","#808080","#808080","#808080","#808080","#808080","#808080","#808080","#808080","#DC9E79","#808080","#808080","#808080","#808080","#808080","#808080","#808080","#808080","#808080","#808080","#808080","#808080","#808080","#808080","#808080","#808080","#808080","#808080","#808080","#808080","#808080","#808080","#808080","#808080","#808080","#808080","#808080","#DC9E79","#DC9E79","#808080","#808080","#808080","#808080","#808080","#808080","#808080","#808080","#808080","#808080","#808080","#808080","#DC9E79","#808080","#DC9E79","#808080","#808080","#808080","#808080","#808080","#808080","#808080","#808080","#808080","#808080","#808080","#808080","#808080","#808080","#808080","#808080","#808080","#808080","#DC9E79","#808080","#808080","#808080","#DC9E79","#DC9E79","#DC9E79","#DC9E79","#808080","#808080","#808080","#808080","#808080","#DC9E79","#808080","#DC9E79","#808080","#DC9E79","#DC9E79","#808080","#808080","#808080","#808080","#808080","#808080","#808080","#808080","#808080","#808080","#808080","#DC9E79","#808080","#808080","#DC9E79","#DC9E79","#DC9E79","#808080","#808080","#808080","#DC9E79","#DC9E79","#808080","#808080","#808080"],"fillOpacity":0.5},null,null,null,null,null,{"interactive":false,"permanent":false,"direction":"auto","opacity":1,"offset":[0,0],"textsize":"10px","textOnly":false,"className":"","sticky":true},null]},{"method":"addLegend","args":[{"colors":["#000000","#DC9E79","#808080"],"labels":["black","cinnamon","gray"],"na_color":null,"na_label":"NA","opacity":0.5,"position":"topright","type":"factor","title":"primary_fur_color","extra":null,"layerId":null,"className":"info legend","group":null}]}],"limits":{"lat":[40.702313,40.860825],"lng":[-74.016629,-73.932793]}},"evals":[],"jsHooks":[]}</script>
 </div>
 
 
